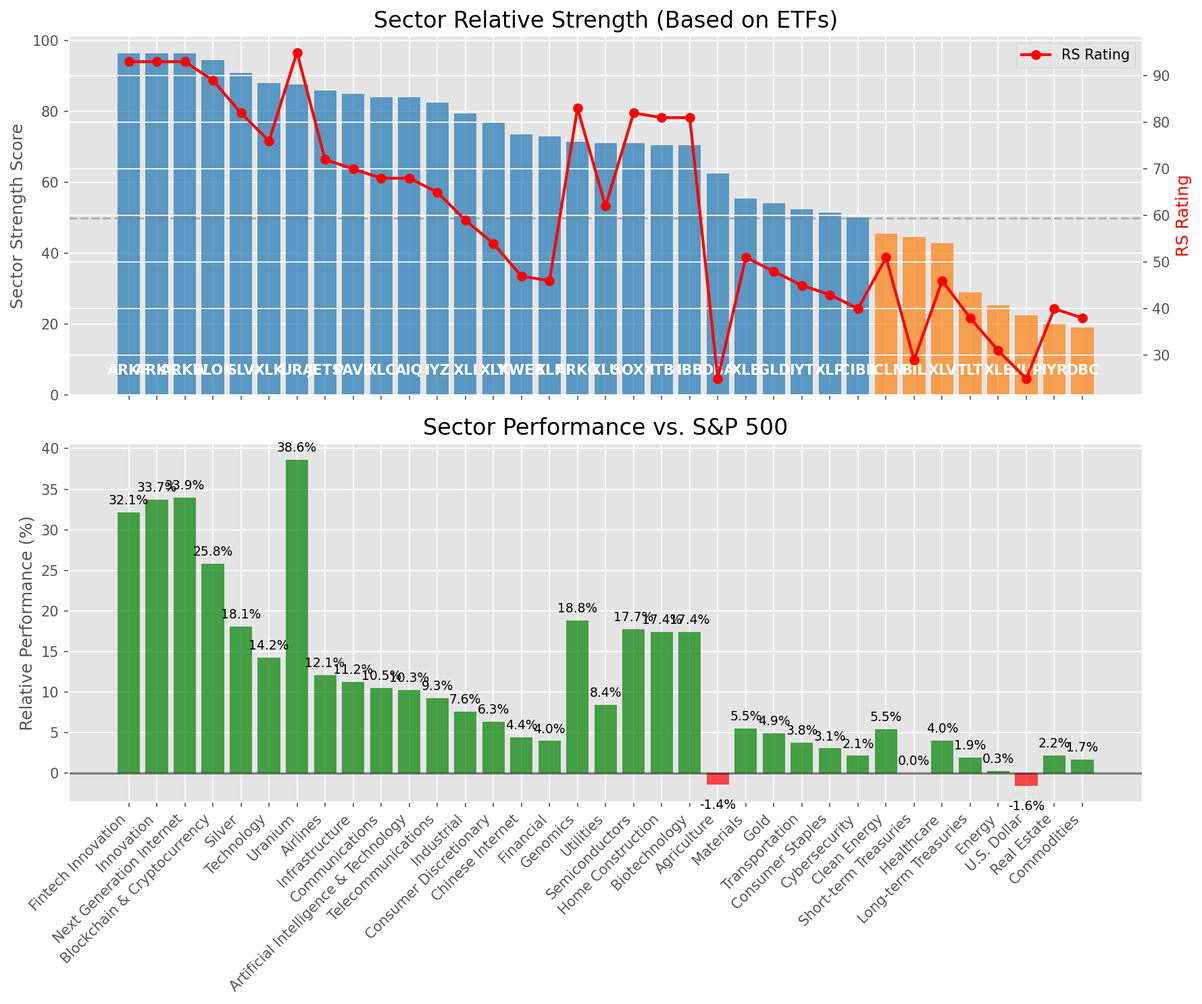
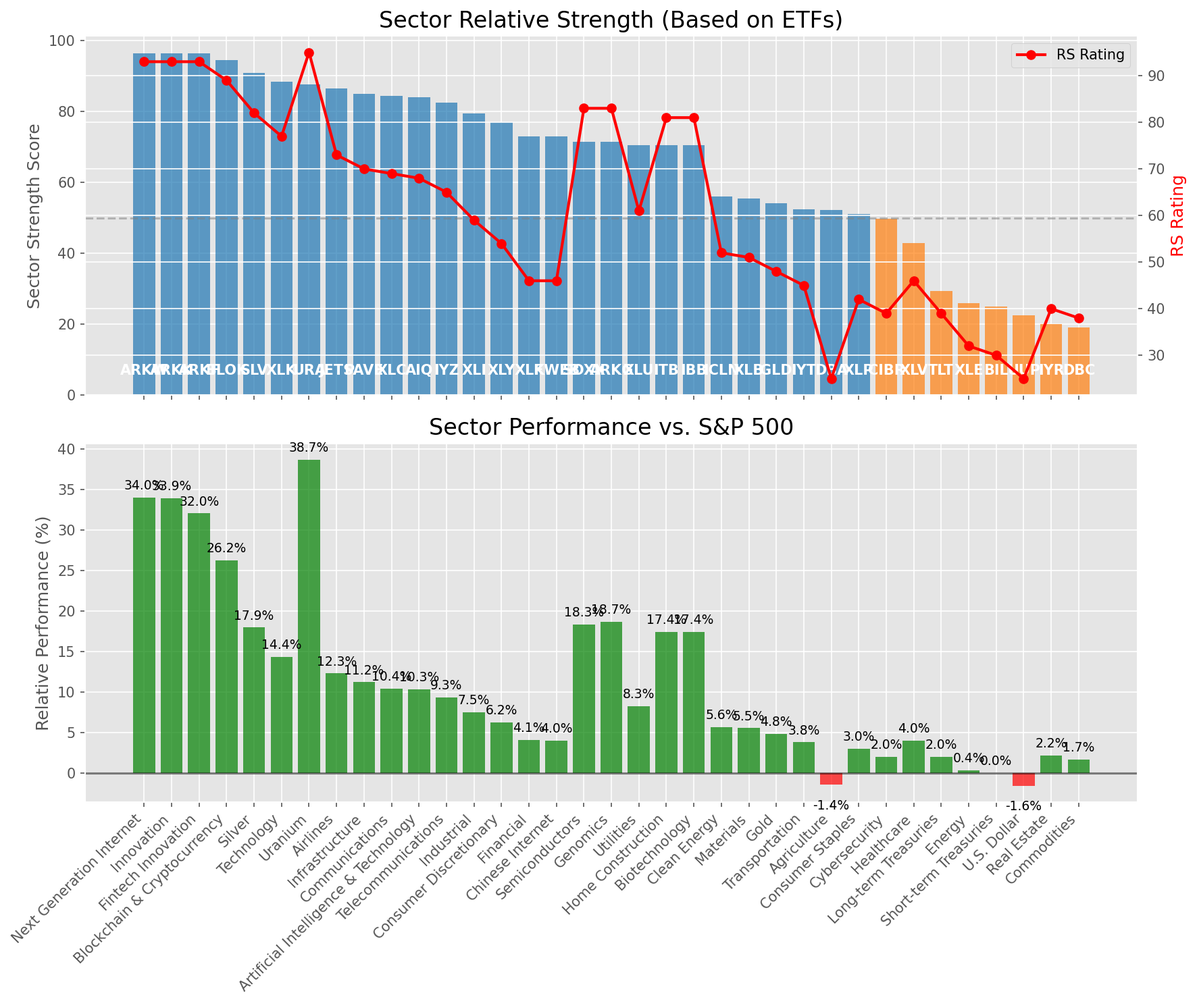
Add market report for 2025-08-14

diff --git a/oneil_relative_strength_report_2025-08-14.md b/oneil_relative_strength_report_2025-08-14.md
@@ -13,7 +13,7 @@
 | **Historical Mean** | 9.75 |
 | **Standard Deviation** | 0.49 |
 | **Z-Score (StdDev from Mean)** | 1.49 |
-| **Total Market Cap** | $317.35 trillion |
+| **Total Market Cap** | $317.19 trillion |
 | **GDP** | $30.33 trillion |
 
 ## **Market Insights**
@@ -49,41 +49,41 @@ Based on William O'Neil's Relative Strength Methodology
 
 | ETF | Strength | RS Rating | Performance | Above Key MAs | Trend | Sector |
 |-----|----------|-----------|-------------|--------------|-------|--------|
-| [ARKF](https://www.tradingview.com/chart/?symbol=ARKF) | 96.5 | 93.0 | 32.14% | 10d ✓, 50d ✓, 200d ✓ | ↗ | Fintech Innovation |
-| [ARKK](https://www.tradingview.com/chart/?symbol=ARKK) | 96.5 | 93.0 | 33.72% | 10d ✓, 50d ✓, 200d ✓ | ↗ | Innovation |
-| [ARKW](https://www.tradingview.com/chart/?symbol=ARKW) | 96.5 | 93.0 | 33.94% | 10d ✓, 50d ✓, 200d ✓ | ↗ | Next Generation Internet |
-| [BLOK](https://www.tradingview.com/chart/?symbol=BLOK) | 94.5 | 89.0 | 25.84% | 10d ✓, 50d ✓, 200d ✓ | ↗ | Blockchain & Cryptocurrency |
-| [SLV](https://www.tradingview.com/chart/?symbol=SLV) | 91.0 | 82.0 | 18.09% | 10d ✓, 50d ✓, 200d ✓ | ↗ | Silver |
-| [XLK](https://www.tradingview.com/chart/?symbol=XLK) | 88.0 | 76.0 | 14.21% | 10d ✓, 50d ✓, 200d ✓ | ↗ | Technology |
-| [URA](https://www.tradingview.com/chart/?symbol=URA) | 87.6 | 95.0 | 38.63% | 10d ✗, 50d ✓, 200d ✓ | ↗ | Uranium |
-| [JETS](https://www.tradingview.com/chart/?symbol=JETS) | 86.0 | 72.0 | 12.06% | 10d ✓, 50d ✓, 200d ✓ | ↗ | Airlines |
-| [PAVE](https://www.tradingview.com/chart/?symbol=PAVE) | 85.0 | 70.0 | 11.24% | 10d ✓, 50d ✓, 200d ✓ | ↗ | Infrastructure |
-| [XLC](https://www.tradingview.com/chart/?symbol=XLC) | 84.0 | 68.0 | 10.53% | 10d ✓, 50d ✓, 200d ✓ | ↗ | Communications |
-| [AIQ](https://www.tradingview.com/chart/?symbol=AIQ) | 84.0 | 68.0 | 10.27% | 10d ✓, 50d ✓, 200d ✓ | ↗ | Artificial Intelligence & Technology |
-| [IYZ](https://www.tradingview.com/chart/?symbol=IYZ) | 82.5 | 65.0 | 9.28% | 10d ✓, 50d ✓, 200d ✓ | ↗ | Telecommunications |
-| [XLI](https://www.tradingview.com/chart/?symbol=XLI) | 79.5 | 59.0 | 7.59% | 10d ✓, 50d ✓, 200d ✓ | ↗ | Industrial |
-| [XLY](https://www.tradingview.com/chart/?symbol=XLY) | 77.0 | 54.0 | 6.32% | 10d ✓, 50d ✓, 200d ✓ | ↗ | Consumer Discretionary |
-| [KWEB](https://www.tradingview.com/chart/?symbol=KWEB) | 73.5 | 47.0 | 4.44% | 10d ✓, 50d ✓, 200d ✓ | ↗ | Chinese Internet |
-| [XLF](https://www.tradingview.com/chart/?symbol=XLF) | 73.0 | 46.0 | 3.98% | 10d ✓, 50d ✓, 200d ✓ | ↗ | Financial |
-| [ARKG](https://www.tradingview.com/chart/?symbol=ARKG) | 71.5 | 83.0 | 18.81% | 10d ✓, 50d ✓, 200d ✓ | ↘ | Genomics |
-| [XLU](https://www.tradingview.com/chart/?symbol=XLU) | 71.1 | 62.0 | 8.44% | 10d ✗, 50d ✓, 200d ✓ | ↗ | Utilities |
-| [SOXX](https://www.tradingview.com/chart/?symbol=SOXX) | 71.0 | 82.0 | 17.72% | 10d ✓, 50d ✓, 200d ✓ | ↘ | Semiconductors |
-| [ITB](https://www.tradingview.com/chart/?symbol=ITB) | 70.5 | 81.0 | 17.45% | 10d ✓, 50d ✓, 200d ✓ | ↘ | Home Construction |
-| [IBB](https://www.tradingview.com/chart/?symbol=IBB) | 70.5 | 81.0 | 17.43% | 10d ✓, 50d ✓, 200d ✓ | ↘ | Biotechnology |
-| [DBA](https://www.tradingview.com/chart/?symbol=DBA) | 62.5 | 25.0 | -1.37% | 10d ✓, 50d ✓, 200d ✓ | ↗ | Agriculture |
-| [XLB](https://www.tradingview.com/chart/?symbol=XLB) | 55.5 | 51.0 | 5.54% | 10d ✓, 50d ✓, 200d ✓ | ↘ | Materials |
-| [GLD](https://www.tradingview.com/chart/?symbol=GLD) | 54.2 | 48.0 | 4.89% | 10d ✗, 50d ✗, 200d ✓ | ↗ | Gold |
+| [ARKW](https://www.tradingview.com/chart/?symbol=ARKW) | 96.5 | 93.0 | 33.98% | 10d ✓, 50d ✓, 200d ✓ | ↗ | Next Generation Internet |
+| [ARKK](https://www.tradingview.com/chart/?symbol=ARKK) | 96.5 | 93.0 | 33.86% | 10d ✓, 50d ✓, 200d ✓ | ↗ | Innovation |
+| [ARKF](https://www.tradingview.com/chart/?symbol=ARKF) | 96.5 | 93.0 | 32.02% | 10d ✓, 50d ✓, 200d ✓ | ↗ | Fintech Innovation |
+| [BLOK](https://www.tradingview.com/chart/?symbol=BLOK) | 94.5 | 89.0 | 26.21% | 10d ✓, 50d ✓, 200d ✓ | ↗ | Blockchain & Cryptocurrency |
+| [SLV](https://www.tradingview.com/chart/?symbol=SLV) | 91.0 | 82.0 | 17.95% | 10d ✓, 50d ✓, 200d ✓ | ↗ | Silver |
+| [XLK](https://www.tradingview.com/chart/?symbol=XLK) | 88.5 | 77.0 | 14.35% | 10d ✓, 50d ✓, 200d ✓ | ↗ | Technology |
+| [URA](https://www.tradingview.com/chart/?symbol=URA) | 87.6 | 95.0 | 38.65% | 10d ✗, 50d ✓, 200d ✓ | ↗ | Uranium |
+| [JETS](https://www.tradingview.com/chart/?symbol=JETS) | 86.5 | 73.0 | 12.29% | 10d ✓, 50d ✓, 200d ✓ | ↗ | Airlines |
+| [PAVE](https://www.tradingview.com/chart/?symbol=PAVE) | 85.0 | 70.0 | 11.21% | 10d ✓, 50d ✓, 200d ✓ | ↗ | Infrastructure |
+| [XLC](https://www.tradingview.com/chart/?symbol=XLC) | 84.5 | 69.0 | 10.44% | 10d ✓, 50d ✓, 200d ✓ | ↗ | Communications |
+| [AIQ](https://www.tradingview.com/chart/?symbol=AIQ) | 84.0 | 68.0 | 10.34% | 10d ✓, 50d ✓, 200d ✓ | ↗ | Artificial Intelligence & Technology |
+| [IYZ](https://www.tradingview.com/chart/?symbol=IYZ) | 82.5 | 65.0 | 9.34% | 10d ✓, 50d ✓, 200d ✓ | ↗ | Telecommunications |
+| [XLI](https://www.tradingview.com/chart/?symbol=XLI) | 79.5 | 59.0 | 7.49% | 10d ✓, 50d ✓, 200d ✓ | ↗ | Industrial |
+| [XLY](https://www.tradingview.com/chart/?symbol=XLY) | 77.0 | 54.0 | 6.24% | 10d ✓, 50d ✓, 200d ✓ | ↗ | Consumer Discretionary |
+| [XLF](https://www.tradingview.com/chart/?symbol=XLF) | 73.0 | 46.0 | 4.06% | 10d ✓, 50d ✓, 200d ✓ | ↗ | Financial |
+| [KWEB](https://www.tradingview.com/chart/?symbol=KWEB) | 73.0 | 46.0 | 3.98% | 10d ✓, 50d ✓, 200d ✓ | ↗ | Chinese Internet |
+| [SOXX](https://www.tradingview.com/chart/?symbol=SOXX) | 71.5 | 83.0 | 18.32% | 10d ✓, 50d ✓, 200d ✓ | ↘ | Semiconductors |
+| [ARKG](https://www.tradingview.com/chart/?symbol=ARKG) | 71.5 | 83.0 | 18.69% | 10d ✓, 50d ✓, 200d ✓ | ↘ | Genomics |
+| [XLU](https://www.tradingview.com/chart/?symbol=XLU) | 70.6 | 61.0 | 8.28% | 10d ✗, 50d ✓, 200d ✓ | ↗ | Utilities |
+| [ITB](https://www.tradingview.com/chart/?symbol=ITB) | 70.5 | 81.0 | 17.39% | 10d ✓, 50d ✓, 200d ✓ | ↘ | Home Construction |
+| [IBB](https://www.tradingview.com/chart/?symbol=IBB) | 70.5 | 81.0 | 17.41% | 10d ✓, 50d ✓, 200d ✓ | ↘ | Biotechnology |
+| [ICLN](https://www.tradingview.com/chart/?symbol=ICLN) | 56.0 | 52.0 | 5.65% | 10d ✓, 50d ✓, 200d ✓ | ↘ | Clean Energy |
+| [XLB](https://www.tradingview.com/chart/?symbol=XLB) | 55.5 | 51.0 | 5.55% | 10d ✓, 50d ✓, 200d ✓ | ↘ | Materials |
+| [GLD](https://www.tradingview.com/chart/?symbol=GLD) | 54.2 | 48.0 | 4.81% | 10d ✗, 50d ✗, 200d ✓ | ↗ | Gold |
 | [IYT](https://www.tradingview.com/chart/?symbol=IYT) | 52.5 | 45.0 | 3.80% | 10d ✓, 50d ✓, 200d ✓ | ↘ | Transportation |
-| [XLP](https://www.tradingview.com/chart/?symbol=XLP) | 51.5 | 43.0 | 3.06% | 10d ✓, 50d ✓, 200d ✓ | ↘ | Consumer Staples |
-| [CIBR](https://www.tradingview.com/chart/?symbol=CIBR) | 50.2 | 40.0 | 2.15% | 10d ✗, 50d ✗, 200d ✓ | ↗ | Cybersecurity |
-| [ICLN](https://www.tradingview.com/chart/?symbol=ICLN) | 45.6 | 51.0 | 5.45% | 10d ✗, 50d ✓, 200d ✓ | ↘ | Clean Energy |
-| [BIL](https://www.tradingview.com/chart/?symbol=BIL) | 44.5 | 29.0 | 0.04% | 10d ✓, 50d ✓, 200d ✓ | ↘ | Short-term Treasuries |
-| [XLV](https://www.tradingview.com/chart/?symbol=XLV) | 42.8 | 46.0 | 4.01% | 10d ✓, 50d ✓, 200d ✗ | ↘ | Healthcare |
-| [TLT](https://www.tradingview.com/chart/?symbol=TLT) | 28.9 | 38.0 | 1.90% | 10d ✗, 50d ✓, 200d ✗ | ↘ | Long-term Treasuries |
-| [XLE](https://www.tradingview.com/chart/?symbol=XLE) | 25.4 | 31.0 | 0.25% | 10d ✓, 50d ✗, 200d ✗ | ↘ | Energy |
-| [UUP](https://www.tradingview.com/chart/?symbol=UUP) | 22.4 | 25.0 | -1.56% | 10d ✗, 50d ✓, 200d ✗ | ↘ | U.S. Dollar |
-| [IYR](https://www.tradingview.com/chart/?symbol=IYR) | 20.0 | 40.0 | 2.22% | 10d ✗, 50d ✗, 200d ✗ | ↘ | Real Estate |
-| [DBC](https://www.tradingview.com/chart/?symbol=DBC) | 19.0 | 38.0 | 1.72% | 10d ✗, 50d ✗, 200d ✗ | ↘ | Commodities |
+| [DBA](https://www.tradingview.com/chart/?symbol=DBA) | 52.3 | 25.0 | -1.44% | 10d ✓, 50d ✓, 200d ✗ | ↗ | Agriculture |
+| [XLP](https://www.tradingview.com/chart/?symbol=XLP) | 51.0 | 42.0 | 2.99% | 10d ✓, 50d ✓, 200d ✓ | ↘ | Consumer Staples |
+| [CIBR](https://www.tradingview.com/chart/?symbol=CIBR) | 49.7 | 39.0 | 2.03% | 10d ✗, 50d ✗, 200d ✓ | ↗ | Cybersecurity |
+| [XLV](https://www.tradingview.com/chart/?symbol=XLV) | 42.8 | 46.0 | 4.03% | 10d ✓, 50d ✓, 200d ✗ | ↘ | Healthcare |
+| [TLT](https://www.tradingview.com/chart/?symbol=TLT) | 29.4 | 39.0 | 1.99% | 10d ✗, 50d ✓, 200d ✗ | ↘ | Long-term Treasuries |
+| [XLE](https://www.tradingview.com/chart/?symbol=XLE) | 25.9 | 32.0 | 0.36% | 10d ✓, 50d ✗, 200d ✗ | ↘ | Energy |
+| [BIL](https://www.tradingview.com/chart/?symbol=BIL) | 24.9 | 30.0 | 0.03% | 10d ✓, 50d ✗, 200d ✗ | ↘ | Short-term Treasuries |
+| [UUP](https://www.tradingview.com/chart/?symbol=UUP) | 22.4 | 25.0 | -1.58% | 10d ✗, 50d ✓, 200d ✗ | ↘ | U.S. Dollar |
+| [IYR](https://www.tradingview.com/chart/?symbol=IYR) | 20.0 | 40.0 | 2.17% | 10d ✗, 50d ✗, 200d ✗ | ↘ | Real Estate |
+| [DBC](https://www.tradingview.com/chart/?symbol=DBC) | 19.0 | 38.0 | 1.68% | 10d ✗, 50d ✗, 200d ✗ | ↘ | Commodities |
 
 ### **Sector ETF Performance Interpretation**
 
@@ -98,168 +98,154 @@ This table shows the relative strength metrics for different market sectors base
 
 ### **Current Sector Leadership**
 
-The current market leadership is coming from the following sectors: **Fintech Innovation, Innovation, Next Generation Internet**.
+The current market leadership is coming from the following sectors: **Next Generation Internet, Innovation, Fintech Innovation**.
 
-The **Fintech Innovation** sector (represented by **ARKF**) is showing particularly strong relative strength with an RS rating of 93.0 and performance of 32.14% vs. the S&P 500. This sector is trading above its 10-day, 50-day, 200-day moving average(s). Investors should consider focusing on high RS stocks within these leading sectors for potential outperformance.
+The **Next Generation Internet** sector (represented by **ARKW**) is showing particularly strong relative strength with an RS rating of 93.0 and performance of 33.98% vs. the S&P 500. This sector is trading above its 10-day, 50-day, 200-day moving average(s). Investors should consider focusing on high RS stocks within these leading sectors for potential outperformance.
 
 ---
 
 ## **Buy Recommendations**
 
-The following 57 stocks show exceptional relative strength:
+The following 59 stocks show exceptional relative strength:
 
 | RS Rating | Buy Score | Current Price | Chart | Name | Ticker |
 |-----------|-----------|---------------|-------|------|--------|
-| 100 | 100 | $69.58 | [Chart](https://www.tradingview.com/chart/?symbol=KTOS) | Kratos Defense & Security Solutions, Inc. | KTOS |
-| 100 | 100 | $110.51 | [Chart](https://www.tradingview.com/chart/?symbol=HOOD) | Robinhood Markets, Inc. Class A Common Stock | HOOD |
-| 100 | 100 | $75.93 | [Chart](https://www.tradingview.com/chart/?symbol=MP) | MP Materials Corp. | MP |
-| 100 | 100 | $117.55 | [Chart](https://www.tradingview.com/chart/?symbol=CRDO) | Credo Technology Group Holding Ltd Ordinary Shares | CRDO |
-| 100 | 100 | $68.75 | [Chart](https://www.tradingview.com/chart/?symbol=NBIS) | Nebius Group N.V. Class A Ordinary Shares | NBIS |
-| 99 | 100 | $96.23 | [Chart](https://www.tradingview.com/chart/?symbol=RYTM) | Rhythm Pharmaceuticals, Inc. Common Stock | RYTM |
-| 98 | 100 | $175.27 | [Chart](https://www.tradingview.com/chart/?symbol=FUTU) | Futu Holdings Limited American Depositary Shares | FUTU |
-| 98 | 100 | $380.13 | [Chart](https://www.tradingview.com/chart/?symbol=TLN) | Talen Energy Corporation Common Stock | TLN |
-| 97 | 100 | $194.51 | [Chart](https://www.tradingview.com/chart/?symbol=COOP) | Mr. Cooper Group Inc. Common Stock | COOP |
-| 97 | 100 | $59.65 | [Chart](https://www.tradingview.com/chart/?symbol=GH) | Guardant Health, Inc. Common Stock | GH |
-| 97 | 100 | $66.08 | [Chart](https://www.tradingview.com/chart/?symbol=MRCY) | Mercury Systems Inc. | MRCY |
-| 97 | 100 | $25.70 | [Chart](https://www.tradingview.com/chart/?symbol=TME) | Tencent Music Entertainment Group American Depositary Shares, each representing two Class A Ordinary Shares | TME |
-| 97 | 100 | $85.37 | [Chart](https://www.tradingview.com/chart/?symbol=LIF) | Life360, Inc. Common Stock | LIF |
-| 96 | 100 | $57.53 | [Chart](https://www.tradingview.com/chart/?symbol=BTI) | British American Tobacco p.l.c. American Depositary Shares, American Depositary Shares, each representing one Ordinary Share | BTI |
-| 96 | 100 | $98.96 | [Chart](https://www.tradingview.com/chart/?symbol=EBAY) | eBay Inc | EBAY |
-| 96 | 100 | $24.59 | [Chart](https://www.tradingview.com/chart/?symbol=ACAD) | Acadia Pharmaceuticals Inc. | ACAD |
-| 96 | 100 | $26.55 | [Chart](https://www.tradingview.com/chart/?symbol=LQDA) | Liquidia Corporation Common Stock | LQDA |
-| 95 | 100 | $123.83 | [Chart](https://www.tradingview.com/chart/?symbol=PPLT) | abrdn Physical Platinum Shares ETF | PPLT |
-| 95 | 100 | $31.50 | [Chart](https://www.tradingview.com/chart/?symbol=PAAS) | Pan American Silver Corp. | PAAS |
-| 95 | 100 | $180.66 | [Chart](https://www.tradingview.com/chart/?symbol=PLTR) | Palantir Technologies Inc. Class A Common Stock | PLTR |
-| 95 | 100 | $99.11 | [Chart](https://www.tradingview.com/chart/?symbol=TPB) | Turning Point Brands, Inc. | TPB |
-| 94 | 100 | $30.69 | [Chart](https://www.tradingview.com/chart/?symbol=OR) | OR Royalties Inc. | OR |
-| 94 | 100 | $53.85 | [Chart](https://www.tradingview.com/chart/?symbol=SIL) | Global X Silver Miners ETF (NEW) | SIL |
-| 93 | 100 | $36.73 | [Chart](https://www.tradingview.com/chart/?symbol=DB) | Deutsche Bank Aktiengesellschaft | DB |
-| 93 | 100 | $54.56 | [Chart](https://www.tradingview.com/chart/?symbol=ARKF) | ARK Fintech Innovation ETF | ARKF |
-| 93 | 100 | $31.33 | [Chart](https://www.tradingview.com/chart/?symbol=SRAD) | Sportradar Group AG Class A Ordinary Shares | SRAD |
-| 93 | 100 | $159.97 | [Chart](https://www.tradingview.com/chart/?symbol=ARKW) | ARK Next Generation Internet ETF | ARKW |
-| 92 | 100 | $25.88 | [Chart](https://www.tradingview.com/chart/?symbol=TFPM) | Triple Flag Precious Metals Corp. | TFPM |
-| 91 | 100 | $22.93 | [Chart](https://www.tradingview.com/chart/?symbol=MAG) | MAG Silver Corp. | MAG |
-| 91 | 100 | $60.17 | [Chart](https://www.tradingview.com/chart/?symbol=VIK) | Viking Holdings Ltd | VIK |
-| 90 | 100 | $53.92 | [Chart](https://www.tradingview.com/chart/?symbol=FHI) | Federated Hermes, Inc. | FHI |
-| 90 | 100 | $95.13 | [Chart](https://www.tradingview.com/chart/?symbol=C) | Citigroup Inc. | C |
-| 88 | 100 | $276.11 | [Chart](https://www.tradingview.com/chart/?symbol=IDCC) | InterDigital, Inc. | IDCC |
-| 89 | 99 | $67.11 | [Chart](https://www.tradingview.com/chart/?symbol=MAIN) | Main Street Capital Corporation | MAIN |
-| 87 | 99 | $162.88 | [Chart](https://www.tradingview.com/chart/?symbol=VSEC) | VSE Corp | VSEC |
-| 86 | 99 | $119.37 | [Chart](https://www.tradingview.com/chart/?symbol=GILD) | Gilead Sciences Inc | GILD |
-| 88 | 98 | $194.67 | [Chart](https://www.tradingview.com/chart/?symbol=AWI) | Armstrong World Industries, Inc. | AWI |
-| 86 | 98 | $93.25 | [Chart](https://www.tradingview.com/chart/?symbol=LLYVK) | Liberty Media Corporation Series C Liberty Live Common Stock | LLYVK |
-| 85 | 97 | $37.87 | [Chart](https://www.tradingview.com/chart/?symbol=AS) | Amer Sports, Inc. | AS |
-| 84 | 97 | $43.65 | [Chart](https://www.tradingview.com/chart/?symbol=LTM) | LATAM Airlines Group S.A. American Depositary Shares (each representing two thousand (2,000) shares of Common Stock) | LTM |
-| 83 | 97 | $20.52 | [Chart](https://www.tradingview.com/chart/?symbol=BCS) | Barclays PLC | BCS |
-| 83 | 97 | $40.61 | [Chart](https://www.tradingview.com/chart/?symbol=AHR) | American Healthcare REIT, Inc. | AHR |
-| 84 | 96 | $62.65 | [Chart](https://www.tradingview.com/chart/?symbol=SHLD) | Global X Defense Tech ETF | SHLD |
-| 85 | 95 | $48.82 | [Chart](https://www.tradingview.com/chart/?symbol=FAST) | Fastenal Co | FAST |
-| 84 | 95 | $248.65 | [Chart](https://www.tradingview.com/chart/?symbol=BAP) | Credicorp LTD | BAP |
-| 84 | 95 | $410.61 | [Chart](https://www.tradingview.com/chart/?symbol=RBC) | RBC Bearings Incorporated | RBC |
-| 82 | 95 | $191.84 | [Chart](https://www.tradingview.com/chart/?symbol=TKO) | TKO Group Holdings, Inc. | TKO |
-| 84 | 94 | $32.05 | [Chart](https://www.tradingview.com/chart/?symbol=IIIV) | i3 Verticals, Inc. Class A Common Stock | IIIV |
+| 100 | 100 | $69.12 | [Chart](https://www.tradingview.com/chart/?symbol=KTOS) | Kratos Defense & Security Solutions, Inc. | KTOS |
+| 100 | 100 | $110.71 | [Chart](https://www.tradingview.com/chart/?symbol=HOOD) | Robinhood Markets, Inc. Class A Common Stock | HOOD |
+| 100 | 100 | $76.58 | [Chart](https://www.tradingview.com/chart/?symbol=MP) | MP Materials Corp. | MP |
+| 100 | 100 | $117.33 | [Chart](https://www.tradingview.com/chart/?symbol=CRDO) | Credo Technology Group Holding Ltd Ordinary Shares | CRDO |
+| 100 | 100 | $68.46 | [Chart](https://www.tradingview.com/chart/?symbol=NBIS) | Nebius Group N.V. Class A Ordinary Shares | NBIS |
+| 99 | 100 | $96.48 | [Chart](https://www.tradingview.com/chart/?symbol=RYTM) | Rhythm Pharmaceuticals, Inc. Common Stock | RYTM |
+| 98 | 100 | $380.60 | [Chart](https://www.tradingview.com/chart/?symbol=TLN) | Talen Energy Corporation Common Stock | TLN |
+| 98 | 100 | $174.75 | [Chart](https://www.tradingview.com/chart/?symbol=FUTU) | Futu Holdings Limited American Depositary Shares | FUTU |
+| 97 | 100 | $60.36 | [Chart](https://www.tradingview.com/chart/?symbol=GH) | Guardant Health, Inc. Common Stock | GH |
+| 97 | 100 | $66.83 | [Chart](https://www.tradingview.com/chart/?symbol=MRCY) | Mercury Systems Inc. | MRCY |
+| 97 | 100 | $193.60 | [Chart](https://www.tradingview.com/chart/?symbol=COOP) | Mr. Cooper Group Inc. Common Stock | COOP |
+| 97 | 100 | $85.33 | [Chart](https://www.tradingview.com/chart/?symbol=LIF) | Life360, Inc. Common Stock | LIF |
+| 97 | 100 | $25.52 | [Chart](https://www.tradingview.com/chart/?symbol=TME) | Tencent Music Entertainment Group American Depositary Shares, each representing two Class A Ordinary Shares | TME |
+| 96 | 100 | $24.53 | [Chart](https://www.tradingview.com/chart/?symbol=ACAD) | Acadia Pharmaceuticals Inc. | ACAD |
+| 96 | 100 | $98.48 | [Chart](https://www.tradingview.com/chart/?symbol=EBAY) | eBay Inc | EBAY |
+| 95 | 100 | $57.42 | [Chart](https://www.tradingview.com/chart/?symbol=BTI) | British American Tobacco p.l.c. American Depositary Shares, American Depositary Shares, each representing one Ordinary Share | BTI |
+| 95 | 100 | $52.96 | [Chart](https://www.tradingview.com/chart/?symbol=REVG) | REV Group, Inc. | REVG |
+| 95 | 100 | $99.34 | [Chart](https://www.tradingview.com/chart/?symbol=TPB) | Turning Point Brands, Inc. | TPB |
+| 95 | 100 | $123.78 | [Chart](https://www.tradingview.com/chart/?symbol=PPLT) | abrdn Physical Platinum Shares ETF | PPLT |
+| 95 | 100 | $31.41 | [Chart](https://www.tradingview.com/chart/?symbol=PAAS) | Pan American Silver Corp. | PAAS |
+| 95 | 100 | $181.02 | [Chart](https://www.tradingview.com/chart/?symbol=PLTR) | Palantir Technologies Inc. Class A Common Stock | PLTR |
+| 95 | 100 | $26.09 | [Chart](https://www.tradingview.com/chart/?symbol=LQDA) | Liquidia Corporation Common Stock | LQDA |
+| 94 | 100 | $53.80 | [Chart](https://www.tradingview.com/chart/?symbol=SIL) | Global X Silver Miners ETF (NEW) | SIL |
+| 94 | 100 | $30.63 | [Chart](https://www.tradingview.com/chart/?symbol=OR) | OR Royalties Inc. | OR |
+| 93 | 100 | $160.01 | [Chart](https://www.tradingview.com/chart/?symbol=ARKW) | ARK Next Generation Internet ETF | ARKW |
+| 93 | 100 | $36.78 | [Chart](https://www.tradingview.com/chart/?symbol=DB) | Deutsche Bank Aktiengesellschaft | DB |
+| 93 | 100 | $54.51 | [Chart](https://www.tradingview.com/chart/?symbol=ARKF) | ARK Fintech Innovation ETF | ARKF |
+| 93 | 100 | $31.18 | [Chart](https://www.tradingview.com/chart/?symbol=SRAD) | Sportradar Group AG Class A Ordinary Shares | SRAD |
+| 92 | 100 | $25.81 | [Chart](https://www.tradingview.com/chart/?symbol=TFPM) | Triple Flag Precious Metals Corp. | TFPM |
+| 91 | 100 | $60.02 | [Chart](https://www.tradingview.com/chart/?symbol=VIK) | Viking Holdings Ltd | VIK |
+| 91 | 100 | $22.85 | [Chart](https://www.tradingview.com/chart/?symbol=MAG) | MAG Silver Corp. | MAG |
+| 91 | 100 | $110.74 | [Chart](https://www.tradingview.com/chart/?symbol=APH) | Amphenol Corporation | APH |
+| 90 | 100 | $95.46 | [Chart](https://www.tradingview.com/chart/?symbol=C) | Citigroup Inc. | C |
+| 90 | 100 | $53.94 | [Chart](https://www.tradingview.com/chart/?symbol=FHI) | Federated Hermes, Inc. | FHI |
+| 88 | 100 | $163.82 | [Chart](https://www.tradingview.com/chart/?symbol=VSEC) | VSE Corp | VSEC |
+| 88 | 100 | $269.75 | [Chart](https://www.tradingview.com/chart/?symbol=IDCC) | InterDigital, Inc. | IDCC |
+| 89 | 99 | $67.15 | [Chart](https://www.tradingview.com/chart/?symbol=MAIN) | Main Street Capital Corporation | MAIN |
+| 88 | 98 | $194.16 | [Chart](https://www.tradingview.com/chart/?symbol=AWI) | Armstrong World Industries, Inc. | AWI |
+| 86 | 98 | $93.18 | [Chart](https://www.tradingview.com/chart/?symbol=LLYVK) | Liberty Media Corporation Series C Liberty Live Common Stock | LLYVK |
+| 85 | 98 | $43.74 | [Chart](https://www.tradingview.com/chart/?symbol=LTM) | LATAM Airlines Group S.A. American Depositary Shares (each representing two thousand (2,000) shares of Common Stock) | LTM |
+| 85 | 98 | $119.02 | [Chart](https://www.tradingview.com/chart/?symbol=GILD) | Gilead Sciences Inc | GILD |
+| 84 | 98 | $20.55 | [Chart](https://www.tradingview.com/chart/?symbol=BCS) | Barclays PLC | BCS |
+| 85 | 97 | $37.92 | [Chart](https://www.tradingview.com/chart/?symbol=AS) | Amer Sports, Inc. | AS |
+| 85 | 96 | $250.36 | [Chart](https://www.tradingview.com/chart/?symbol=BAP) | Credicorp LTD | BAP |
+| 84 | 96 | $62.71 | [Chart](https://www.tradingview.com/chart/?symbol=SHLD) | Global X Defense Tech ETF | SHLD |
+| 82 | 96 | $40.39 | [Chart](https://www.tradingview.com/chart/?symbol=AHR) | American Healthcare REIT, Inc. | AHR |
+| 85 | 95 | $48.69 | [Chart](https://www.tradingview.com/chart/?symbol=FAST) | Fastenal Co | FAST |
+| 82 | 95 | $191.00 | [Chart](https://www.tradingview.com/chart/?symbol=TKO) | TKO Group Holdings, Inc. | TKO |
+| 84 | 94 | $31.94 | [Chart](https://www.tradingview.com/chart/?symbol=IIIV) | i3 Verticals, Inc. Class A Common Stock | IIIV |
 | 84 | 94 | $12.89 | [Chart](https://www.tradingview.com/chart/?symbol=PSLV) | Sprott Physical Silver Trust | PSLV |
-| 82 | 93 | $36.24 | [Chart](https://www.tradingview.com/chart/?symbol=SIVR) | abrdn Physical Silver Shares ETF | SIVR |
-| 82 | 93 | $24.91 | [Chart](https://www.tradingview.com/chart/?symbol=ING) | ING Groep N.V. American Depositary Shares | ING |
-| 81 | 93 | $416.85 | [Chart](https://www.tradingview.com/chart/?symbol=CYBR) | CyberArk Software Ltd. | CYBR |
-| 80 | 93 | $48.40 | [Chart](https://www.tradingview.com/chart/?symbol=EWP) | iShares MSCI Spain ETF | EWP |
-| 82 | 92 | $28.82 | [Chart](https://www.tradingview.com/chart/?symbol=CPS) | Cooper-Standard Automotive Inc. | CPS |
-| 80 | 92 | $63.32 | [Chart](https://www.tradingview.com/chart/?symbol=CAKE) | Cheesecake Factory (The) | CAKE |
-| 80 | 92 | $65.63 | [Chart](https://www.tradingview.com/chart/?symbol=MO) | Altria Group, Inc. | MO |
-| 81 | 91 | $277.27 | [Chart](https://www.tradingview.com/chart/?symbol=WTS) | Watts Water Technologies, Inc. Class A | WTS |
+| 83 | 94 | $24.96 | [Chart](https://www.tradingview.com/chart/?symbol=ING) | ING Groep N.V. American Depositary Shares | ING |
+| 82 | 94 | $103.35 | [Chart](https://www.tradingview.com/chart/?symbol=BK) | Bank of New York Mellon Corporation | BK |
+| 82 | 93 | $34.50 | [Chart](https://www.tradingview.com/chart/?symbol=SLV) | iShares Silver Trust | SLV |
+| 82 | 93 | $36.20 | [Chart](https://www.tradingview.com/chart/?symbol=SIVR) | abrdn Physical Silver Shares ETF | SIVR |
+| 82 | 93 | $28.96 | [Chart](https://www.tradingview.com/chart/?symbol=CPS) | Cooper-Standard Automotive Inc. | CPS |
+| 81 | 93 | $414.53 | [Chart](https://www.tradingview.com/chart/?symbol=CYBR) | CyberArk Software Ltd. | CYBR |
+| 81 | 93 | $63.37 | [Chart](https://www.tradingview.com/chart/?symbol=CAKE) | Cheesecake Factory (The) | CAKE |
+| 80 | 93 | $48.42 | [Chart](https://www.tradingview.com/chart/?symbol=EWP) | iShares MSCI Spain ETF | EWP |
+| 80 | 92 | $65.55 | [Chart](https://www.tradingview.com/chart/?symbol=MO) | Altria Group, Inc. | MO |
 
 ---
 
 
 ## **Sell Recommendations**
 
-The following 83 stocks show deteriorating relative strength:
+The following 67 stocks show deteriorating relative strength:
 
 | RS Rating | Sell Score | Current Price | Chart | Name | Ticker |
 |-----------|------------|---------------|-------|------|--------|
-| 1 | 100 | $11.64 | [Chart](https://www.tradingview.com/chart/?symbol=NVDS) | Investment Managers Series Trust II Tradr 1.5X Short NVDA Daily ETF | NVDS |
-| 1 | 100 | $194.69 | [Chart](https://www.tradingview.com/chart/?symbol=LULU) | lululemon athletica inc. | LULU |
-| 2 | 100 | $22.83 | [Chart](https://www.tradingview.com/chart/?symbol=TECS) | Direxion Daily Technology Bear 3x Shares | TECS |
-| 3 | 100 | $26.05 | [Chart](https://www.tradingview.com/chart/?symbol=CRI) | Carter's Inc. | CRI |
-| 3 | 100 | $23.09 | [Chart](https://www.tradingview.com/chart/?symbol=ZSL) | ProShares UltraShort Silver | ZSL |
-| 5 | 100 | $20.82 | [Chart](https://www.tradingview.com/chart/?symbol=GAP) | The Gap, Inc. | GAP |
-| 6 | 100 | $39.58 | [Chart](https://www.tradingview.com/chart/?symbol=SDOW) | ProShares UltraPro Short Dow 30 | SDOW |
-| 6 | 100 | $16.61 | [Chart](https://www.tradingview.com/chart/?symbol=S) | SentinelOne, Inc. | S |
-| 6 | 100 | $10.80 | [Chart](https://www.tradingview.com/chart/?symbol=PATH) | UiPath, Inc. | PATH |
-| 7 | 100 | $76.67 | [Chart](https://www.tradingview.com/chart/?symbol=ESTC) | Elastic N.V. | ESTC |
-| 8 | 100 | $28.82 | [Chart](https://www.tradingview.com/chart/?symbol=BBWI) | Bath & Body Works, Inc. | BBWI |
-| 8 | 100 | $12.48 | [Chart](https://www.tradingview.com/chart/?symbol=ARDT) | Ardent Health, Inc. | ARDT |
-| 10 | 100 | $23.55 | [Chart](https://www.tradingview.com/chart/?symbol=DXD) | ProShares UltraShort Dow 30 | DXD |
-| 11 | 100 | $11.95 | [Chart](https://www.tradingview.com/chart/?symbol=NU) | Nu Holdings Ltd. | NU |
-| 16 | 100 | $14.14 | [Chart](https://www.tradingview.com/chart/?symbol=VRE) | Veris Residential, Inc. | VRE |
-| 11 | 99 | $16.48 | [Chart](https://www.tradingview.com/chart/?symbol=BTAL) | AGF U.S. Market Neutral Anti-Beta Fund | BTAL |
-| 16 | 99 | $16.54 | [Chart](https://www.tradingview.com/chart/?symbol=CTO) | CTO Realty Growth, Inc. | CTO |
-| 3 | 98 | $46.96 | [Chart](https://www.tradingview.com/chart/?symbol=CPRT) | Copart Inc | CPRT |
-| 14 | 98 | $70.81 | [Chart](https://www.tradingview.com/chart/?symbol=EXPO) | Exponent Inc | EXPO |
-| 7 | 97 | $30.98 | [Chart](https://www.tradingview.com/chart/?symbol=DAR) | DARLING INGREDIENTS INC. | DAR |
-| 20 | 97 | $48.07 | [Chart](https://www.tradingview.com/chart/?symbol=EDU) | New Oriental Education and Technology Group, Inc. American Depositary Shares (each representing ten (10) Common Shares) | EDU |
+| 1 | 100 | $195.19 | [Chart](https://www.tradingview.com/chart/?symbol=LULU) | lululemon athletica inc. | LULU |
+| 1 | 100 | $11.61 | [Chart](https://www.tradingview.com/chart/?symbol=NVDS) | Investment Managers Series Trust II Tradr 1.5X Short NVDA Daily ETF | NVDS |
+| 2 | 100 | $22.72 | [Chart](https://www.tradingview.com/chart/?symbol=TECS) | Direxion Daily Technology Bear 3x Shares | TECS |
+| 3 | 100 | $26.29 | [Chart](https://www.tradingview.com/chart/?symbol=CRI) | Carter's Inc. | CRI |
+| 3 | 100 | $23.15 | [Chart](https://www.tradingview.com/chart/?symbol=ZSL) | ProShares UltraShort Silver | ZSL |
+| 5 | 100 | $20.88 | [Chart](https://www.tradingview.com/chart/?symbol=GAP) | The Gap, Inc. | GAP |
+| 6 | 100 | $76.42 | [Chart](https://www.tradingview.com/chart/?symbol=ESTC) | Elastic N.V. | ESTC |
+| 6 | 100 | $39.59 | [Chart](https://www.tradingview.com/chart/?symbol=SDOW) | ProShares UltraPro Short Dow 30 | SDOW |
+| 6 | 100 | $10.73 | [Chart](https://www.tradingview.com/chart/?symbol=PATH) | UiPath, Inc. | PATH |
+| 6 | 100 | $16.57 | [Chart](https://www.tradingview.com/chart/?symbol=S) | SentinelOne, Inc. | S |
+| 8 | 100 | $28.71 | [Chart](https://www.tradingview.com/chart/?symbol=BBWI) | Bath & Body Works, Inc. | BBWI |
+| 8 | 100 | $12.49 | [Chart](https://www.tradingview.com/chart/?symbol=ARDT) | Ardent Health, Inc. | ARDT |
+| 10 | 100 | $23.57 | [Chart](https://www.tradingview.com/chart/?symbol=DXD) | ProShares UltraShort Dow 30 | DXD |
+| 11 | 100 | $12.01 | [Chart](https://www.tradingview.com/chart/?symbol=NU) | Nu Holdings Ltd. | NU |
+| 16 | 99 | $14.12 | [Chart](https://www.tradingview.com/chart/?symbol=VRE) | Veris Residential, Inc. | VRE |
+| 11 | 98 | $16.48 | [Chart](https://www.tradingview.com/chart/?symbol=BTAL) | AGF U.S. Market Neutral Anti-Beta Fund | BTAL |
+| 16 | 98 | $16.51 | [Chart](https://www.tradingview.com/chart/?symbol=CTO) | CTO Realty Growth, Inc. | CTO |
+| 20 | 97 | $48.06 | [Chart](https://www.tradingview.com/chart/?symbol=EDU) | New Oriental Education and Technology Group, Inc. American Depositary Shares (each representing ten (10) Common Shares) | EDU |
+| 7 | 96 | $30.94 | [Chart](https://www.tradingview.com/chart/?symbol=DAR) | DARLING INGREDIENTS INC. | DAR |
 | 14 | 96 | $38.34 | [Chart](https://www.tradingview.com/chart/?symbol=SH) | ProShares Short S&P500 | SH |
-| 16 | 96 | $37.53 | [Chart](https://www.tradingview.com/chart/?symbol=KSA) | iShares MSCI Saudi Arabia ETF | KSA |
-| 5 | 95 | $22.14 | [Chart](https://www.tradingview.com/chart/?symbol=CLW) | Clearwater Paper Corporation | CLW |
-| 10 | 95 | $28.61 | [Chart](https://www.tradingview.com/chart/?symbol=CNX) | CNX Resources Corporation | CNX |
-| 16 | 95 | $38.15 | [Chart](https://www.tradingview.com/chart/?symbol=UDR) | UDR, Inc. | UDR |
-| 10 | 94 | $85.28 | [Chart](https://www.tradingview.com/chart/?symbol=MMSI) | Merit Medical Systems Inc | MMSI |
-| 11 | 94 | $31.71 | [Chart](https://www.tradingview.com/chart/?symbol=JD) | JD.com, Inc. | JD |
-| 18 | 94 | $25.34 | [Chart](https://www.tradingview.com/chart/?symbol=FCPT) | Four Corners Property Trust, Inc. | FCPT |
-| 8 | 93 | $10.59 | [Chart](https://www.tradingview.com/chart/?symbol=DVAX) | Dynavax Technologies Corporation | DVAX |
-| 12 | 93 | $32.28 | [Chart](https://www.tradingview.com/chart/?symbol=PSQ) | ProShares Short QQQ | PSQ |
-| 16 | 93 | $34.69 | [Chart](https://www.tradingview.com/chart/?symbol=AMH) | AMERICAN HOMES 4 RENT | AMH |
-| 10 | 91 | $48.06 | [Chart](https://www.tradingview.com/chart/?symbol=BIRK) | Birkenstock Holding plc | BIRK |
-| 11 | 91 | $422.74 | [Chart](https://www.tradingview.com/chart/?symbol=WSO) | Watsco, Inc. | WSO |
-| 12 | 91 | $771.22 | [Chart](https://www.tradingview.com/chart/?symbol=EQIX) | Equinix, Inc. Common Stock REIT | EQIX |
-| 15 | 91 | $63.58 | [Chart](https://www.tradingview.com/chart/?symbol=EQR) | Equity Residential | EQR |
-| 17 | 91 | $43.79 | [Chart](https://www.tradingview.com/chart/?symbol=SW) | Smurfit Westrock plc | SW |
-| 17 | 91 | $25.20 | [Chart](https://www.tradingview.com/chart/?symbol=DOG) | ProShares Short Dow30 | DOG |
-| 17 | 91 | $280.95 | [Chart](https://www.tradingview.com/chart/?symbol=PSA) | Public Storage | PSA |
-| 18 | 91 | $12.21 | [Chart](https://www.tradingview.com/chart/?symbol=PMT) | PennyMac Mortgage Investment Trust | PMT |
-| 19 | 91 | $13.92 | [Chart](https://www.tradingview.com/chart/?symbol=EWTX) | Edgewise Therapeutics, Inc. Common Stock | EWTX |
-| 15 | 90 | $29.97 | [Chart](https://www.tradingview.com/chart/?symbol=SEE) | Sealed Air Corp. | SEE |
-| 18 | 90 | $86.29 | [Chart](https://www.tradingview.com/chart/?symbol=BCC) | Boise Cascade Company | BCC |
-| 18 | 90 | $37.22 | [Chart](https://www.tradingview.com/chart/?symbol=VNO) | Vornado Realty Trust | VNO |
-| 22 | 90 | $12.33 | [Chart](https://www.tradingview.com/chart/?symbol=WSR) | Whitestone REIT | WSR |
-| 22 | 90 | $37.55 | [Chart](https://www.tradingview.com/chart/?symbol=FLIN) | Franklin FTSE India ETF | FLIN |
-| 13 | 89 | $318.85 | [Chart](https://www.tradingview.com/chart/?symbol=CPAY) | Corpay, Inc. | CPAY |
-| 19 | 88 | $13.12 | [Chart](https://www.tradingview.com/chart/?symbol=NAVI) | Navient Corporation | NAVI |
-| 24 | 88 | $22.64 | [Chart](https://www.tradingview.com/chart/?symbol=CURB) | Curbline Properties Corp. | CURB |
-| 18 | 87 | $29.73 | [Chart](https://www.tradingview.com/chart/?symbol=CNQ) | Canadian Natural Resources Limited | CNQ |
-| 18 | 87 | $91.64 | [Chart](https://www.tradingview.com/chart/?symbol=IRM) | Iron Mountain Inc. | IRM |
-| 21 | 87 | $48.56 | [Chart](https://www.tradingview.com/chart/?symbol=FR) | First Industrial Realty Trust, Inc. | FR |
-| 21 | 86 | $162.18 | [Chart](https://www.tradingview.com/chart/?symbol=EGP) | EastGroup Properties Inc. | EGP |
-| 21 | 86 | $10.14 | [Chart](https://www.tradingview.com/chart/?symbol=NMZ) | Nuveen Municipal High Income Opportunity Fund | NMZ |
-| 24 | 85 | $36.66 | [Chart](https://www.tradingview.com/chart/?symbol=PBA) | PEMBINA PIPELINE CORPORATION | PBA |
-| 27 | 85 | $15.55 | [Chart](https://www.tradingview.com/chart/?symbol=FXN) | First Trust Energy AlphaDEX Fund | FXN |
-| 20 | 84 | $134.35 | [Chart](https://www.tradingview.com/chart/?symbol=DVA) | DaVita Inc. | DVA |
-| 22 | 84 | $153.57 | [Chart](https://www.tradingview.com/chart/?symbol=PG) | Procter & Gamble Company | PG |
-| 21 | 83 | $44.34 | [Chart](https://www.tradingview.com/chart/?symbol=EPI) | WisdomTree India Earnings Fund ETF | EPI |
-| 22 | 83 | $28.34 | [Chart](https://www.tradingview.com/chart/?symbol=HRL) | Hormel Foods Corporation | HRL |
-| 25 | 83 | $106.08 | [Chart](https://www.tradingview.com/chart/?symbol=PLD) | PROLOGIS, INC. | PLD |
-| 20 | 82 | $11.88 | [Chart](https://www.tradingview.com/chart/?symbol=CEPU) | Central Puerto S.A. American Depositary Shares (each represents ten Common Shares) | CEPU |
-| 22 | 82 | $30.34 | [Chart](https://www.tradingview.com/chart/?symbol=EPRT) | Essential Properties Realty Trust, Inc. | EPRT |
-| 21 | 81 | $11.35 | [Chart](https://www.tradingview.com/chart/?symbol=NFBK) | Northfield Bancorp, Inc. | NFBK |
-| 25 | 81 | $122.70 | [Chart](https://www.tradingview.com/chart/?symbol=PSX) | PHILLIPS 66 | PSX |
-| 24 | 80 | $275.39 | [Chart](https://www.tradingview.com/chart/?symbol=CB) | Chubb Limited | CB |
-| 23 | 79 | $216.94 | [Chart](https://www.tradingview.com/chart/?symbol=SBAC) | SBA Communications Corp | SBAC |
-| 28 | 79 | $14.81 | [Chart](https://www.tradingview.com/chart/?symbol=GBDC) | Golub Capital BDC, Inc. | GBDC |
-| 28 | 78 | $45.88 | [Chart](https://www.tradingview.com/chart/?symbol=GLPI) | Gaming and Leisure Properties, Inc. | GLPI |
-| 29 | 78 | $72.33 | [Chart](https://www.tradingview.com/chart/?symbol=ADC) | Agree Realty Corporation | ADC |
-| 35 | 78 | $14.43 | [Chart](https://www.tradingview.com/chart/?symbol=MNR) | Mach Natural Resources LP Common Units representing Limited Partner Interests | MNR |
-| 31 | 77 | $56.20 | [Chart](https://www.tradingview.com/chart/?symbol=USRT) | iShares Core U.S. REIT ETF | USRT |
-| 31 | 75 | $21.16 | [Chart](https://www.tradingview.com/chart/?symbol=KIM) | Kimco Realty Corp. | KIM |
-| 34 | 75 | $17.15 | [Chart](https://www.tradingview.com/chart/?symbol=DOC) | Healthpeak Properties, Inc. | DOC |
-| 29 | 72 | $85.11 | [Chart](https://www.tradingview.com/chart/?symbol=GGG) | Graco Inc | GGG |
+| 14 | 96 | $70.67 | [Chart](https://www.tradingview.com/chart/?symbol=EXPO) | Exponent Inc | EXPO |
+| 17 | 95 | $37.59 | [Chart](https://www.tradingview.com/chart/?symbol=KSA) | iShares MSCI Saudi Arabia ETF | KSA |
+| 15 | 94 | $38.07 | [Chart](https://www.tradingview.com/chart/?symbol=UDR) | UDR, Inc. | UDR |
+| 10 | 93 | $85.22 | [Chart](https://www.tradingview.com/chart/?symbol=MMSI) | Merit Medical Systems Inc | MMSI |
+| 11 | 93 | $31.58 | [Chart](https://www.tradingview.com/chart/?symbol=JD) | JD.com, Inc. | JD |
+| 11 | 93 | $28.72 | [Chart](https://www.tradingview.com/chart/?symbol=CNX) | CNX Resources Corporation | CNX |
+| 12 | 93 | $32.29 | [Chart](https://www.tradingview.com/chart/?symbol=PSQ) | ProShares Short QQQ | PSQ |
+| 15 | 92 | $34.59 | [Chart](https://www.tradingview.com/chart/?symbol=AMH) | AMERICAN HOMES 4 RENT | AMH |
+| 19 | 91 | $25.38 | [Chart](https://www.tradingview.com/chart/?symbol=FCPT) | Four Corners Property Trust, Inc. | FCPT |
+| 17 | 90 | $25.19 | [Chart](https://www.tradingview.com/chart/?symbol=DOG) | ProShares Short Dow30 | DOG |
+| 17 | 90 | $43.72 | [Chart](https://www.tradingview.com/chart/?symbol=SW) | Smurfit Westrock plc | SW |
+| 22 | 90 | $12.18 | [Chart](https://www.tradingview.com/chart/?symbol=WSR) | Whitestone REIT | WSR |
+| 22 | 90 | $37.59 | [Chart](https://www.tradingview.com/chart/?symbol=FLIN) | Franklin FTSE India ETF | FLIN |
+| 17 | 89 | $13.01 | [Chart](https://www.tradingview.com/chart/?symbol=CCRN) | Cross Country Healthcare Inc | CCRN |
+| 18 | 89 | $37.05 | [Chart](https://www.tradingview.com/chart/?symbol=VNO) | Vornado Realty Trust | VNO |
+| 19 | 89 | $12.18 | [Chart](https://www.tradingview.com/chart/?symbol=PMT) | PennyMac Mortgage Investment Trust | PMT |
+| 20 | 89 | $13.93 | [Chart](https://www.tradingview.com/chart/?symbol=EWTX) | Edgewise Therapeutics, Inc. Common Stock | EWTX |
+| 13 | 87 | $320.23 | [Chart](https://www.tradingview.com/chart/?symbol=CPAY) | Corpay, Inc. | CPAY |
+| 18 | 86 | $91.40 | [Chart](https://www.tradingview.com/chart/?symbol=IRM) | Iron Mountain Inc. | IRM |
+| 20 | 86 | $13.15 | [Chart](https://www.tradingview.com/chart/?symbol=NAVI) | Navient Corporation | NAVI |
+| 21 | 86 | $48.52 | [Chart](https://www.tradingview.com/chart/?symbol=FR) | First Industrial Realty Trust, Inc. | FR |
+| 21 | 86 | $10.15 | [Chart](https://www.tradingview.com/chart/?symbol=NMZ) | Nuveen Municipal High Income Opportunity Fund | NMZ |
+| 18 | 85 | $29.79 | [Chart](https://www.tradingview.com/chart/?symbol=CNQ) | Canadian Natural Resources Limited | CNQ |
+| 21 | 85 | $161.90 | [Chart](https://www.tradingview.com/chart/?symbol=EGP) | EastGroup Properties Inc. | EGP |
+| 25 | 85 | $18.23 | [Chart](https://www.tradingview.com/chart/?symbol=EBF) | Ennis, Inc. | EBF |
+| 24 | 84 | $36.70 | [Chart](https://www.tradingview.com/chart/?symbol=PBA) | PEMBINA PIPELINE CORPORATION | PBA |
+| 21 | 82 | $44.37 | [Chart](https://www.tradingview.com/chart/?symbol=EPI) | WisdomTree India Earnings Fund ETF | EPI |
+| 25 | 81 | $105.85 | [Chart](https://www.tradingview.com/chart/?symbol=PLD) | PROLOGIS, INC. | PLD |
+| 21 | 80 | $11.91 | [Chart](https://www.tradingview.com/chart/?symbol=CEPU) | Central Puerto S.A. American Depositary Shares (each represents ten Common Shares) | CEPU |
+| 22 | 80 | $30.33 | [Chart](https://www.tradingview.com/chart/?symbol=EPRT) | Essential Properties Realty Trust, Inc. | EPRT |
+| 25 | 80 | $122.73 | [Chart](https://www.tradingview.com/chart/?symbol=PSX) | PHILLIPS 66 | PSX |
+| 24 | 79 | $275.74 | [Chart](https://www.tradingview.com/chart/?symbol=CB) | Chubb Limited | CB |
+| 28 | 78 | $72.16 | [Chart](https://www.tradingview.com/chart/?symbol=ADC) | Agree Realty Corporation | ADC |
+| 28 | 78 | $14.80 | [Chart](https://www.tradingview.com/chart/?symbol=GBDC) | Golub Capital BDC, Inc. | GBDC |
+| 23 | 77 | $216.91 | [Chart](https://www.tradingview.com/chart/?symbol=SBAC) | SBA Communications Corp | SBAC |
+| 31 | 76 | $56.17 | [Chart](https://www.tradingview.com/chart/?symbol=USRT) | iShares Core U.S. REIT ETF | USRT |
+| 30 | 75 | $91.58 | [Chart](https://www.tradingview.com/chart/?symbol=BIL) | SPDR Bloomberg 1-3 Month T-Bill ETF | BIL |
+| 38 | 74 | $14.50 | [Chart](https://www.tradingview.com/chart/?symbol=MNR) | Mach Natural Resources LP Common Units representing Limited Partner Interests | MNR |
 | 34 | 72 | $12.15 | [Chart](https://www.tradingview.com/chart/?symbol=RQI) | COHEN & STEERS QUALITY INCOME REALTY FUND, INC. COMMON SHARES | RQI |
-| 35 | 71 | $24.70 | [Chart](https://www.tradingview.com/chart/?symbol=SNDR) | Schneider National, Inc. | SNDR |
-| 36 | 70 | $136.28 | [Chart](https://www.tradingview.com/chart/?symbol=VLO) | Valero Energy Corporation | VLO |
-| 37 | 70 | $10.36 | [Chart](https://www.tradingview.com/chart/?symbol=NMCO) | Nuveen Municipal Credit Opportunities Fund | NMCO |
-| 37 | 70 | $14.74 | [Chart](https://www.tradingview.com/chart/?symbol=DEI) | Douglas Emmett, Inc. | DEI |
-| 36 | 69 | $27.25 | [Chart](https://www.tradingview.com/chart/?symbol=FREL) | Fidelity MSCI Real Estate Index ETF | FREL |
-| 38 | 67 | $89.22 | [Chart](https://www.tradingview.com/chart/?symbol=VNQ) | Vanguard Real Estate ETF | VNQ |
-| 38 | 66 | $21.85 | [Chart](https://www.tradingview.com/chart/?symbol=DBC) | Invesco DB Commodity Index Tracking Fund | DBC |
+| 37 | 70 | $10.35 | [Chart](https://www.tradingview.com/chart/?symbol=NMCO) | Nuveen Municipal Credit Opportunities Fund | NMCO |
+| 31 | 69 | $85.29 | [Chart](https://www.tradingview.com/chart/?symbol=GGG) | Graco Inc | GGG |
+| 35 | 69 | $135.82 | [Chart](https://www.tradingview.com/chart/?symbol=VLO) | Valero Energy Corporation | VLO |
+| 35 | 69 | $24.72 | [Chart](https://www.tradingview.com/chart/?symbol=SNDR) | Schneider National, Inc. | SNDR |
+| 37 | 69 | $14.72 | [Chart](https://www.tradingview.com/chart/?symbol=DEI) | Douglas Emmett, Inc. | DEI |
+| 37 | 68 | $27.25 | [Chart](https://www.tradingview.com/chart/?symbol=FREL) | Fidelity MSCI Real Estate Index ETF | FREL |
+| 38 | 66 | $21.84 | [Chart](https://www.tradingview.com/chart/?symbol=DBC) | Invesco DB Commodity Index Tracking Fund | DBC |
+| 38 | 66 | $89.16 | [Chart](https://www.tradingview.com/chart/?symbol=VNQ) | Vanguard Real Estate ETF | VNQ |
 
 ## **Methodology**
 
